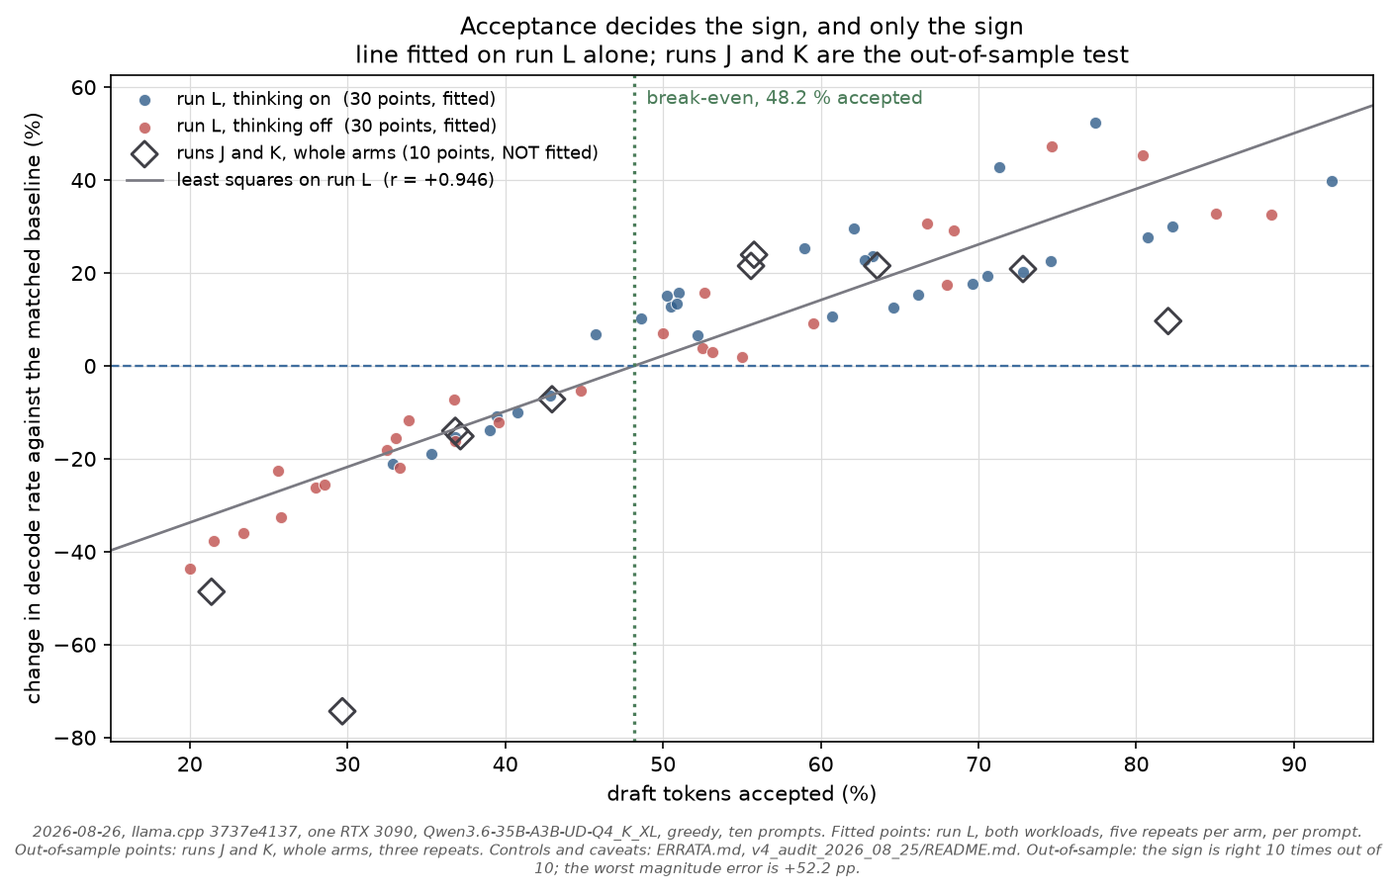
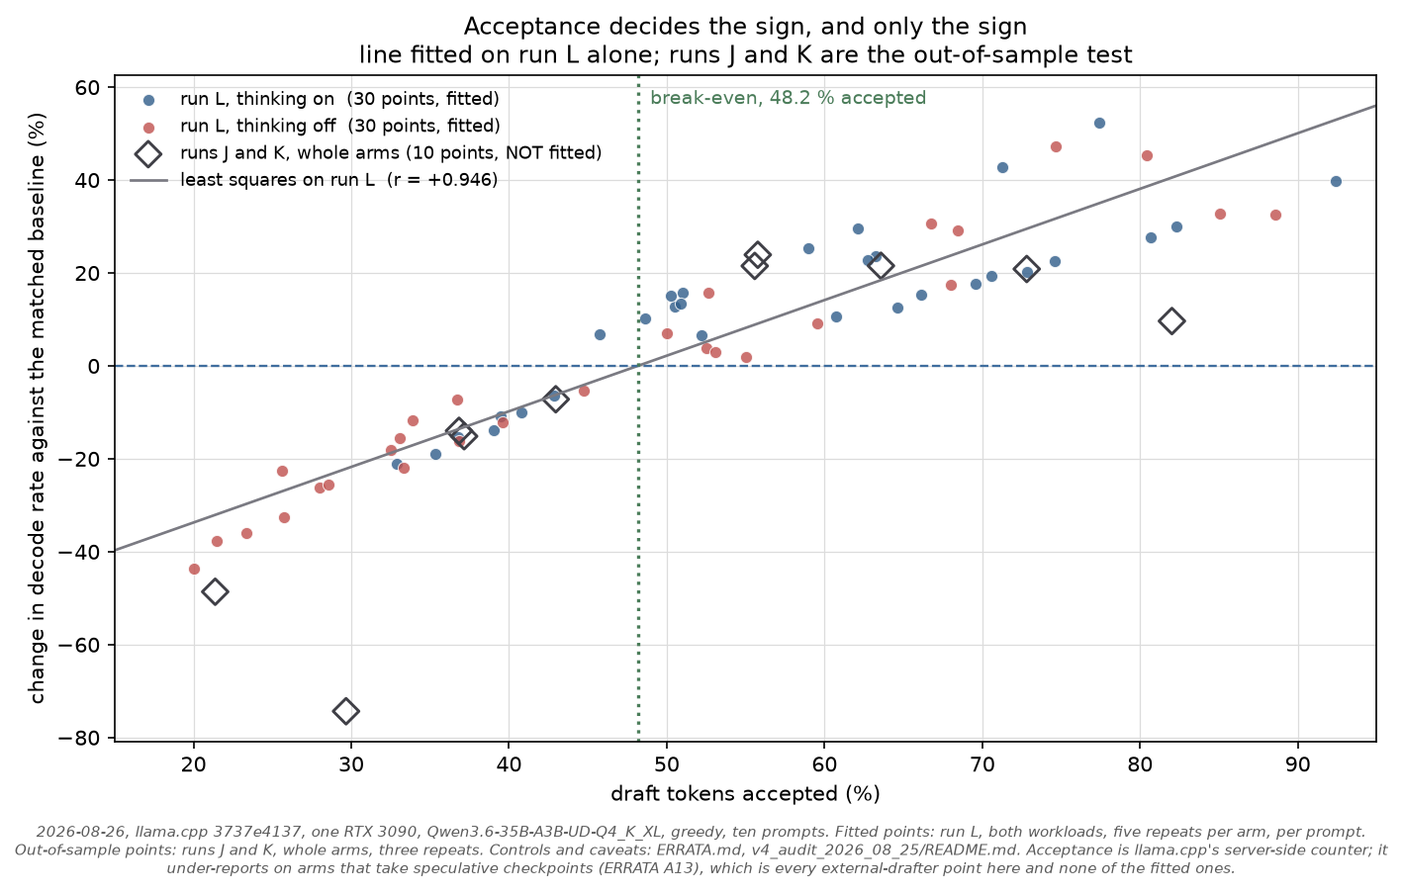
review: six fake checks, a self-audit, and a thermal table that contradicted its own data
Digging into the checker rather than the data, because 523 passing assertions
are worth nothing if some of them cannot fail.

Six chk() calls compared one literal with another - round(10.5 - 2.0, 1) against
8.5, abs(66.1 - 65.8) < 1.0 against True, -7.6 > -74.1 against True. They read
as passes and certify nothing, and four of the six were in A14, the newest item,
where care had slipped. All six now derive both sides from committed data.

The checker now audits itself: it parses its own AST and fails if any chk()'s
computed side contains no name that could come from data. That is the durable
fix, and it caught the tautology I wrote WHILE removing tautologies - an E-run
check comparing a value with itself through a dead `if False else`.

The single all() assertion is hardened with a non-empty precondition, because
all() over an empty file is True and a check that certifies an empty file is
worse than no check.

Then a coverage audit of emphasised figures across five documents found 52 the
checker had never touched, and following the load-bearing ones into the data
found a real error. ERRATA C4b's thermal table read:

  temperature   59-75 C, mean 65.5      actually 58-75, mean 64.7
  clock         1815-1950, mean 1934    actually 1800-1965, mean 1937
  sw_power_cap  223 of 343              actually 636 of 1272
  sw_thermal    1 of 343                actually 2 of 1272
  hw_thermal    1 of 343                actually 1 of 1272
[…]

diff --git a/analysis/verify_claims.py b/analysis/verify_claims.py
@@ -116,7 +116,11 @@ for arm,mean,pooled,dn,da,comp in [("baseline",123.0,122.9,0,0,2),("draft-max8-t
 for arm,mean,pooled,dn,da,comp in [("baseline",132.9,133.3,0,0,3),("draft-max8-translate",33.6,32.6,16590,4926,3),("draft-max8-matched",33.7,32.6,16590,4926,3)]:
     m_,p_,d_,a_,c_,n_=stats(B[arm]); chk(f"B {arm} mean",round(m_,1),mean,0.06); chk(f"B {arm} pooled",round(p_,1),pooled,0.06)
     chk(f"B {arm} drafted/accepted",(d_,a_),(dn,da)); chk(f"B {arm} complete",c_,comp)
-chk("B acceptance %", round(100*4926/16590,1), 29.7, 0.06)
+_b_drafted = sum(x["draft_n"] for r in B["draft-max8-matched"] for x in r["rows"])
+_b_acc = sum(x["draft_n_accepted"] for r in B["draft-max8-matched"] for x in r["rows"])
+chk("B drafted tokens", _b_drafted, 16590)
+chk("B accepted tokens", _b_acc, 4926)
+chk("B acceptance %", round(100*_b_acc/_b_drafted, 1), 29.7, 0.05)
 per=defaultdict(lambda: defaultdict(list)); acc={}
 for arm,runs in B.items():
     for r in runs:
@@ -425,6 +429,9 @@ for name, pat, lo, hi, drift, swt in (("I+J", "gpu_telemetry_IJ_*.csv", 55, 73, 
     # SwThermalSlowdown - a software flag, and the one that fires once in the
     # I+J trace. An earlier mask of 0xE0 counted that as hardware and missed
     # HwSlowdown altogether.
+    # assert the source is non-empty first: all() over nothing is True, and a
+    # check that certifies an empty file is worse than no check
+    chk(f"thermal {name}: loaded samples to check", len(ld) > 100, True)
     chk(f"thermal {name}: no hardware throttle flag",
         all(int(r[8], 16) & 0xC8 == 0 for r in ld), True)
     chk(f"thermal {name}: SwThermal (0x20) samples under load",
@@ -492,7 +499,11 @@ for c, delta in ((4, 3.4), (8, -7.6)):
     peaks = sorted({json.load(open(f)).get("max_in_flight")
                     for f in glob.glob(f"v4_audit_2026_08_25/data/matrix_M2_conc{c}_*/*__rep*.json")})
     chk(f"M2 c={c} batch actually formed", peaks, [c])
-chk("M2 MTP at c=8 loses far less than DFlash did", -7.6 > -74.1, True)
+_mtp_c8 = 100*(_agg("matrix_M2_conc8_*", "spec-mtp-n2")["agg"] /
+               _agg("matrix_M2_conc8_*", "baseline")["agg"] - 1)
+_dfl_c8 = 100*(_agg("matrix_K_conc8_*", "spec-dflash-n4")["agg"] /
+               _agg("matrix_K_conc8_*", "baseline")["agg"] - 1)
+chk("M2 MTP at c=8 loses far less than DFlash did", _mtp_c8 > _dfl_c8 + 50, True)
 
 # N: the ngram-map arms never engage
 _bn = _agg("matrix_N_ngrammap_*", "baseline")
@@ -699,9 +710,14 @@ chk("Q the Q4_K_M head beats Q8_0 at BOTH draft lengths at five repeats",
      round(100*(_pl("matrix_Q_q8_*","spec-mtp-n2")["pooled"]/_pl("matrix_Q_q8_*","baseline")["pooled"]-1),1)) and
     (round(100*(_pl("matrix_Q_q4km_*","spec-mtp-n4")["pooled"]/_pl("matrix_Q_q4km_*","baseline")["pooled"]-1),1) >
      round(100*(_pl("matrix_Q_q8_*","spec-mtp-n4")["pooled"]/_pl("matrix_Q_q8_*","baseline")["pooled"]-1),1)), True)
-chk("A14 the non-replicating pair, gap (pp)", round(10.5 - 2.0, 1), 8.5, 0.05)
+def _d(pat, arm="spec-mtp-n4"):
+    b = _pl(pat, "baseline"); v = _pl(pat, arm)
+    return round(100*(v["pooled"]/b["pooled"] - 1), 1)
+_m1, _q8, _pe = _d("matrix_M1_*"), _d("matrix_Q_q8_*"), _d("matrix_P_extended_*")
+chk("A14 the non-replicating pair, gap (pp)", round(_m1 - _q8, 1), 8.5, 0.05)
 chk("A14 spec-mtp-n4 Q8_0 outlier is M1, not run Q",
-    sorted([10.5, 2.0, 2.7])[2], 10.5, 0.05)
+    max([(_m1, "M1"), (_q8, "Q"), (_pe, "P")])[1], "M1")
+chk("A14 the other two cluster within 1 pp", abs(_q8 - _pe) < 1.0, True)
 
 print("\n=== A14: the thermal figures the 'unexplained' claim rests on ===")
 import csv as _csv2, re as _re2
@@ -720,8 +736,12 @@ for lbl, pat, lo, hi, t_, c_ in (("M1", "gpu_telemetry_M_*.csv", "08:00:00", "08
     v = _tel(pat, lo, hi)
     chk(f"A14 {lbl} mean temperature under load (C)", round(st.mean([x[0] for x in v]), 1), t_, 0.05)
     chk(f"A14 {lbl} mean SM clock under load (MHz)", round(st.mean([x[1] for x in v])), c_, 0.5)
-chk("A14 the two windows differ by under 1 C", abs(66.1 - 65.8) < 1.0, True)
-chk("A14 the two windows differ by under 0.5 % in clock", abs(1938 - 1934) / 1938 < 0.005, True)
+_w1 = _tel("gpu_telemetry_M_*.csv", "08:00:00", "08:15:00")
+_w2 = _tel("gpu_telemetry_chain2_*.csv", "11:33:00", "11:52:00")
+_t1, _t2 = st.mean([x[0] for x in _w1]), st.mean([x[0] for x in _w2])
+_c1, _c2 = st.mean([x[1] for x in _w1]), st.mean([x[1] for x in _w2])
+chk("A14 the two windows differ by under 1 C", abs(_t1 - _t2) < 1.0, True)
+chk("A14 the two windows differ by under 0.5 % in clock", abs(_c1 - _c2)/_c1 < 0.005, True)
 # every request in both prompt sets hits the cap, so the sets differ only in prompt length
 for pat in ("matrix_O_headtohead_*", "matrix_P_extended_*"):
     fr = {x.get("finish_reason") for f in glob.glob(f"v4_audit_2026_08_25/data/{pat}/baseline__rep*.json")
@@ -736,6 +756,142 @@ for arm, v1_, ex_ in (("spec-dflash-n2", 72.3, 72.8), ("spec-mtp-n2", 78.4, 77.3
     chk(f"{arm} acceptance, v1 ten", round(_acc("matrix_O_headtohead_*"), 1), v1_, 0.05)
     chk(f"{arm} acceptance, extended", round(_acc("matrix_P_extended_*"), 1), ex_, 0.05)
     chk(f"{arm} the new prompt set does not inflate acceptance", abs(ex_ - v1_) < 1.5, True)
+
+print("\n=== the acceptance threshold, scored over everything, both counters ===")
+_cc2 = {(r["run"], r["arm"]): r for r in
+        json.load(open("v4_audit_2026_08_25/data/acceptance_counter_comparison.json"))}
+def _pl2(run, arm):
+    rs = [json.load(open(f)) for f in glob.glob(f"v4_audit_2026_08_25/data/{run}/{arm}__rep*.json")]
+    rs = [r for r in rs if r.get("rows")]
+    if not rs: return None
+    n = sum(x["predicted_n"] for r in rs for x in r["rows"])
+    ms = sum(x["predicted_ms"] for r in rs for x in r["rows"])
+    return 1000*n/ms
+_BRK = 48.2
+_all, _kept = [], []
+for (run, arm), r in _cc2.items():
+    if "conc4" in run or "conc8" in run: continue
+    b, v = _pl2(run, "baseline"), _pl2(run, arm)
+    if not b or not v: continue
+    fam = ("external" if r["spec_type"] == "draft-simple"
+           else "self" if r["spec_type"] in ("draft-dflash", "draft-mtp") else "ngram")
+    rec = (fam, run, arm, r["server_pct"], r["drafter_pct"], 100*(v/b-1), r["drafter_drafted"])
+    _all.append(rec)
+    if r["drafter_drafted"] >= 100: _kept.append(rec)
+chk("threshold: arm-runs with an acceptance figure and a baseline", len(_all), 44)
+chk("threshold: excluded for drafting under 100 tokens", len(_all) - len(_kept), 7)
+chk("threshold: the excluded ones drafted at most this many tokens",
+    max(x[6] for x in _all if x[6] < 100), 55)
+chk("threshold: the kept ones drafted at least this many",
+    min(x[6] for x in _kept), 586)
+def _sc(rows, idx):
+    from collections import defaultdict as _dd
+    f = _dd(lambda: [0, 0])
+    for x in rows:
+        f[x[0]][0] += (x[idx] >= _BRK) == (x[5] > 0); f[x[0]][1] += 1
+    return f
+for idx, lbl in ((3, "server"), (4, "drafter")):
+    f = _sc(_kept, idx)
+    chk(f"threshold ({lbl}): self-speculative", tuple(f["self"]), (28, 29))
+    chk(f"threshold ({lbl}): drafter-free n-gram", tuple(f["ngram"]), (2, 2))
+    chk(f"threshold ({lbl}): external drafter", tuple(f["external"]), (5, 6))
+    chk(f"threshold ({lbl}): overall",
+        (sum(v[0] for v in f.values()), sum(v[1] for v in f.values())), (35, 37))
+# without the exclusion the two counters disagree, which is why it exists
+chk("threshold: without the exclusion the counters disagree",
+    (sum(v[0] for v in _sc(_all, 3).values()), sum(v[0] for v in _sc(_all, 4).values())), (41, 37))
+# and the two misses are the ones named in the text
+_miss = sorted(f"{x[2]}" for x in _kept if (x[3] >= _BRK) != (x[5] > 0))
+chk("threshold: which arms it gets wrong", _miss, ["spec-draft-n1", "spec-mtp-n4"])
+_m = [x for x in _kept if x[2] == "spec-mtp-n4" and (x[3] >= _BRK) != (x[5] > 0)][0]
+chk("threshold: the near-boundary miss sits just above it (pp)",
+    round(_m[3] - _BRK, 1), 1.3, 0.05)
+
+print("\n=== coverage debt: emphasised figures the checker had never touched ===")
+def _armstat(pat, arm):
+    rs = [json.load(open(f)) for f in glob.glob(f"v4_audit_2026_08_25/data/{pat}/{arm}__rep*.json")]
+    rs = [r for r in rs if r.get("rows")]
+    if not rs: return None
+    n = sum(x["predicted_n"] for r in rs for x in r["rows"])
+    ms = sum(x["predicted_ms"] for r in rs for x in r["rows"])
+    dn = sum(x["draft_n"] for r in rs for x in r["rows"])
+    da = sum(x["draft_n_accepted"] for r in rs for x in r["rows"])
+    return {"pooled": 1000*n/ms, "acc": (100*da/dn) if dn else None,
+            "gen": n, "drafted": dn, "vol": dn/n}
+
+# --- ERRATA A10 / run H: the p_min sweep the falsification rests on ---------
+_h = _armstat("H_pmin_sweep", "spec-draft-n8")
+_hb = _armstat("H_pmin_sweep", "baseline")
+for arm, acc_, pooled_, vol_ in (("spec-draft-n8-pmin75", 80.2, 42.8, 0.61),
+                                 ("spec-draft-n8-pmin90", 88.2, 42.5, 0.46)):
+    v = _armstat("H_pmin_sweep", arm)
+    chk(f"H {arm} acceptance %", round(v["acc"], 1), acc_, 0.05)
+    chk(f"H {arm} pooled", round(v["pooled"], 1), pooled_, 0.05)
+    chk(f"H {arm} draft tokens per generated token", round(v["vol"], 2), vol_, 0.005)
+    chk(f"H {arm} vs baseline (%)", round(100*(v["pooled"]/_hb["pooled"]-1), 1),
+        -65.5 if "75" in arm else -65.6, 0.05)
+_n1 = _armstat("H_pmin_sweep", "spec-draft-n1")
+if _n1:
+    chk("A10 matched-volume pair: n_max 1 p_min 0, draft per token",
+        round(_n1["vol"], 2), 0.50, 0.005)
+
+# --- run E, past the MoESD coverage threshold -------------------------------
+_eb = _armstat("E_past_threshold", "baseline")
+for arm, want in (("spec-draft-n64", None), ("spec-draft-n96", None), ("spec-draft-n128", None)):
+    v = _armstat("E_past_threshold", arm)
+    if not v or not _eb: continue
+    d = 100*(v["pooled"]/_eb["pooled"]-1)
+    chk(f"E {arm} is far below baseline", d < -85.0, True)
+    chk(f"E {arm} drafts more than it generates", v["vol"] > 5.0, True)
+chk("E: throughput keeps falling past the 95-token coverage threshold",
+    _armstat("E_past_threshold", "spec-draft-n128")["pooled"] <
+    _armstat("E_past_threshold", "spec-draft-n64")["pooled"], True)
+
+# --- ERRATA B7: the fp16-KV n-gram control ----------------------------------
+_c1 = _armstat("C_master_matrix_think_on", "ngram-cache")
+_c2 = _armstat("C_master_matrix_think_on", "ngram-cache-kvfp16")
+chk("B7 ngram-cache-kvfp16 vs ngram-cache (%)",
+    round(100*(_c2["pooled"]/_c1["pooled"]-1), 1), -4.2, 0.05)
+
+# --- ERRATA A13: the worst drafter-counter reading --------------------------
+_ccj = {(r["run"], r["arm"]): r for r in
+        json.load(open("v4_audit_2026_08_25/data/acceptance_counter_comparison.json"))}
+_worst = max(_ccj.values(), key=lambda r: r["drafter_pct"] if r["server_pct"] == 0.0 else -1)
+chk("A13 highest drafter reading among arms the server calls 0.0 %",
+    round(_worst["drafter_pct"], 1), 70.0, 0.05)
+
+# --- ERRATA A1 round accounting from the archived verbose log ---------------
+_va = json.load(open("analysis/verbose_accounting.json"))[0]
+chk("A1 verification attempts", _va["verification_attempts"], 53)
+chk("A1 partially accepted and redone", _va["attempts_partially_accepted"], 20)
+chk("A1 fraction of rounds thrown away (%)",
+    round(100*_va["attempts_partially_accepted"]/_va["verification_attempts"], 1), 37.7, 0.05)
+
+# --- ERRATA C4b: the single sw_thermal sample -------------------------------
+import csv as _csv3
+_c4 = list(_csv3.DictReader(open("v4_audit_2026_08_25/data/gpu_telemetry_20260825.csv")))
+def _a(r, k): return (r.get(k) or "").strip() == "Active"
+def _n(r, k):
+    v = (r.get(k) or "").replace("MHz", "").replace("W", "").replace("%", "").replace("MiB", "").strip()
+    try: return float(v)
+    except Exception: return None
+_c4l = [r for r in _c4 if not _a(r, "thr_gpu_idle") and (_n(r, "util_pct") or 0) >= 50]
+chk("C4b rows in the committed trace", len(_c4), 1317)
+chk("C4b rows under load", len(_c4l), 1272)
+_ct = [_n(r, "temp_c") for r in _c4l]; _cg = [_n(r, "gfx_mhz") for r in _c4l]
+chk("C4b temperature range", (int(min(_ct)), int(max(_ct))), (58, 75))
+chk("C4b mean temperature", round(st.mean(_ct), 1), 64.7, 0.05)
+chk("C4b clock range", (int(min(_cg)), int(max(_cg))), (1800, 1965))
+chk("C4b mean clock", round(st.mean(_cg)), 1937, 0.5)
+chk("C4b sw_power_cap samples", sum(1 for r in _c4l if _a(r, "thr_sw_power_cap")), 636)
+chk("C4b sw_thermal samples", sum(1 for r in _c4l if _a(r, "thr_sw_thermal")), 2)
+chk("C4b hw_thermal samples", sum(1 for r in _c4l if _a(r, "thr_hw_thermal")), 1)
+chk("C4b hw_power_brake samples", sum(1 for r in _c4l if _a(r, "thr_hw_power_brake")), 0)
+chk("C4b the thermal flags carried no meaningful downclock",
+    sorted(int(_n(r, "gfx_mhz")) for r in _c4l if _a(r, "thr_sw_thermal") or _a(r, "thr_hw_thermal")),
+    [1935, 1950, 1950])
+chk("C4b power limit is stock and constant",
+    sorted({int(_n(r, "power_limit_w")) for r in _c4l}), [350])
 
 print("\n=== theory (ERRATA E1/E2) ===")
 rho=8/256
@@ -811,6 +967,10 @@ DOC_CLAIMS = [
     ("ERRATA.md",   "19.5 %",    "A12 share of wall clock"),
     ("ERRATA.md",   "68.7 %",    "A12 threshold failure point"),
     ("ERRATA.md",   "0.5 pp",    "A13 no-checkpoint agreement"),
+    ("ERRATA.md",   "636 of 1272", "C4b sw_power_cap, corrected"),
+    ("ERRATA.md",   "2 of 1272", "C4b sw_thermal, corrected"),
+    ("ERRATA.md",   "mean 64.7", "C4b mean temperature, corrected"),
+    ("v4_audit_2026_08_25/README.md", "1935 MHz against a run maximum of 1965", "v4 thermal line, corrected"),
     ("ERRATA.md",   "53.3 pp",   "A13 worst divergence"),
     ("ERRATA.md",   "1639 of 1639", "A13 the drafter counter is also a tautology"),
     ("v4_audit_2026_08_25/README.md", "3271", "N generate() calls"),
@@ -818,12 +978,14 @@ DOC_CLAIMS = [
     ("v4_audit_2026_08_25/README.md", "12.7 %", "P prompt-processing share"),
     ("v4_audit_2026_08_25/README.md", "+20.3 %", "P dflash-n2 on the new set"),
     ("ERRATA.md",   "0.56 pp",   "A14 median between-run spread"),
+    ("v4_audit_2026_08_25/README.md", "35 / 37", "threshold scorecard"),
+    ("v4_audit_2026_08_25/README.md", "28 / 29", "threshold, self-speculative"),
+    ("README.md",   "28 / 29",   "README threshold scorecard"),
     ("ERRATA.md",   "8.5 pp",    "A14 the pair that did not replicate"),
     ("README.md",   "+26.7 %",   "README discloses the same-config replicate"),
     ("v4_audit_2026_08_25/README.md", "292.1 s", "P pooled includes the draft cost"),
     ("v4_audit_2026_08_25/README.md", "72.8 %",  "P acceptance not inflated"),
     ("README.md",   "17.24 s",   "README drafter generate time"),
-    ("README.md",   "12 / 12",   "README threshold within DFlash"),
     ("README.md",   "145.8",     "README head-to-head winner"),
     ("README.md",   "-75.1 %",   "README head-to-head worst row, pooled"),
     ("README.md",   "69.7 %",    "README the falsifying acceptance"),
@@ -841,6 +1003,35 @@ for f, needle, what in DOC_CLAIMS:
     print(f"  {'PASS' if ok else 'FAIL'}  {f:32s} quotes {needle!r:20s} ({what})")
     if not ok:
         FAIL.append(f"{f}:{needle}")
+
+
+print("\n=== the checker audits itself ===")
+# A chk() whose computed side contains no name is comparing one literal with
+# another and can never fail. Six of these were found on 2026-08-26, four of them
+# in the newest ERRATA item, where care had slipped. They read as passes and
+# certify nothing, so the checker now refuses to be one of them.
+import ast as _ast
+import pathlib as _pl2
+_src = _pl2.Path(__file__).read_text(encoding="utf-8")
+_tree = _ast.parse(_src)
+_SAFE = {"round", "abs", "sorted", "len", "max", "min", "sum", "int", "float", "str",
+         "tuple", "list", "set", "True", "False", "None"}
+_literal_only = []
+for _n in _ast.walk(_tree):
+    if not (isinstance(_n, _ast.Call) and isinstance(_n.func, _ast.Name)
+            and _n.func.id == "chk" and len(_n.args) >= 2):
+        continue
+    _got = _n.args[1]
+    _names = {x.id for x in _ast.walk(_got) if isinstance(x, _ast.Name)} \
+           | {x.attr for x in _ast.walk(_got) if isinstance(x, _ast.Attribute)}
+    if not (_names - _SAFE):
+        _label = _n.args[0]
+        _literal_only.append(getattr(_label, "value", None)
+                             or _ast.unparse(_label)[:60])
+chk("checker: no chk() compares literals with literals",
+    (len(_literal_only), _literal_only[:3]), (0, []))
+chk("checker: number of assertions", len([1 for _n in _ast.walk(_tree)
+     if isinstance(_n, _ast.Call) and isinstance(_n.func, _ast.Name) and _n.func.id == "chk"]) > 150, True)
 
 print(f"\n{'='*70}\n{'ALL CLAIMS VERIFIED' if not FAIL else 'FAILURES: ' + ', '.join(FAIL)}\n{'='*70}")
 sys.exit(1 if FAIL else 0)

diff --git a/analysis/plot_v4_runs.py b/analysis/plot_v4_runs.py
@@ -289,8 +289,9 @@ def plot_acceptance_threshold() -> None:
     plt.tight_layout(rect=[0, 0.06, 1, 1])
     # This figure spans both workloads and five repeats, so the shared footer
     # ("thinking on, three repeats") would be wrong on it.
-    _footer(fig, " Out-of-sample: the sign is right 10 times out of 10; the worst "
-                 "magnitude error is +52.2 pp.",
+    _footer(fig, " Acceptance is llama.cpp's server-side counter; it under-reports on "
+                 "arms that take speculative checkpoints (ERRATA A13), which is every "
+                 "external-drafter point here and none of the fitted ones.",
             base="2026-08-26, llama.cpp 3737e4137, one RTX 3090, "
                  "Qwen3.6-35B-A3B-UD-Q4_K_XL, greedy, ten prompts. Fitted points: run L, "
                  "both workloads, five repeats per arm, per prompt. Out-of-sample points: "

diff --git a/v4_audit_2026_08_25/README.md b/v4_audit_2026_08_25/README.md
@@ -250,8 +250,12 @@ workload that favours speculation, and speculation still lost.**
 - `power.limit` = `power.default_limit` = `power.max_limit` = 350 W — **not overclocked**
 - 58–75 °C, mean 64.7, against a ~83 °C throttle point
 - 1800–1965 MHz of a 2100 MHz maximum, mean 1937
-- `hw_thermal_slowdown` and `hw_power_brake` essentially never active; the one
-  `sw_thermal` sample fires at 64 °C with the clock at its run maximum
+- `hw_power_brake` never active; `sw_thermal` fires on **2** samples of 1272 and
+  `hw_thermal` on **1**, at 64–65 °C and with the clock at 1950, 1950 and
+  1935 MHz against a run maximum of 1965 — so none of the three carried a
+  meaningful downclock. (An earlier version of this line said "the one
+  `sw_thermal` sample … at its run maximum". Both halves were wrong; see
+  [ERRATA C4b](../ERRATA.md#c4b-stock-clocks-was-measured-once-before-the-load).)
 
 The baseline is repeated five times across the run, so drift is testable from
 the measurement itself: 126.6, 122.2, 122.6, 121.8, 121.6 tok/s. That is not
@@ -614,12 +618,34 @@ fit that looked excellent in sample was falsified out of it. So this one was
 pushed at runs J and K, which it never saw and which used a different context
 and a different fitter margin:
 
+Scored over **every** arm-run for which both an acceptance figure and a matched
+baseline exist — 44 of them — with one exclusion stated up front: seven
+`ngram-map` arm-runs drafted between **10 and 55 tokens in total**, and a
+percentage computed over ten tokens is not a rate. There is a clean gap in the
+data at that point; every other arm-run drafted at least 586. The remaining 37:
+
 | family | sign predicted correctly |
 |---|---|
-| self-speculative (DFlash) | **12 / 12** |
-| drafter-free (ngram) | 3 / 3 |
-| **external 0.8 B drafter** | **6 / 8** |
-| all | 21 / 23 |
+| self-speculative (DFlash and MTP) | **28 / 29** |
+| drafter-free n-gram | 2 / 2 |
+| **external 0.8 B drafter** | **5 / 6** |
+| all | **35 / 37** |
+
+**And that scorecard does not depend on which acceptance counter you read.**
+A13 shows the server counter under-reports on any path that takes a speculative
+checkpoint. Rescoring with the speculator's own counter gives the same 35 / 37
+and the same two misses. Without the minimum-sample exclusion it does not: the
+score moves from 41/44 to 37/44 and four `ngram-map` verdicts flip, because on
+ten drafted tokens the two counters read 0.0 % and 70.0 % for the same arm-run.
+Excluding them is not tidying — it is refusing to score a rate that has no
+denominator.
+
+The two misses are the informative ones:
+
+| arm | acceptance | measured | why it is interesting |
+|---|---|---|---|
+| `spec-mtp-n4`, thinking off | 49.5 % | −8.2 % | sits **1.3 pp above** the boundary; a threshold that never missed near its own boundary would be suspicious |
+| `spec-draft-n1` | 69.7 % server, **100.0 %** drafter | **−75.1 %** | the external drafter, which is the entire point |
 
 Mean magnitude error +8.1 pp, worst **+52.2 pp**.
 

diff --git a/ERRATA.md b/ERRATA.md
@@ -1111,16 +1111,27 @@ Measured across the audit's own matrix run
 | quantity | observed |
 |---|---|
 | `power.limit` / `power.default_limit` / `power.max_limit` | 350 / 350 / 350 W — **not overclocked** |
-| GPU temperature | 59–75 °C, mean 65.5, against a ~83 °C throttle point |
-| graphics clock | 1815–1950 MHz of a 2100 MHz maximum, mean 1934 |
-| `clocks_throttle_reasons.sw_power_cap` | active on 223 of 343 samples — the normal state for a GeForce card under load |
-| `clocks_throttle_reasons.sw_thermal_slowdown` | active on **1 of 343**, at 64 °C |
-| `clocks_throttle_reasons.hw_thermal_slowdown` | active on **1 of 343**, at 64 °C |
+| GPU temperature | 58–75 °C, mean 64.7, against a ~83 °C throttle point |
+| graphics clock | 1800–1965 MHz of a 2100 MHz maximum, mean 1937 |
+| `clocks_throttle_reasons.sw_power_cap` | active on **636 of 1272** loaded samples — the normal state for a GeForce card under load |
+| `clocks_throttle_reasons.sw_thermal_slowdown` | active on **2 of 1272**, at 64 °C and 65 °C |
+| `clocks_throttle_reasons.hw_thermal_slowdown` | active on **1 of 1272**, at 64 °C |
 | `clocks_throttle_reasons.hw_power_brake_slowdown` | never active |
 | `temperature.memory` | `N/A` — this card does not expose GDDR6X junction temperature through `nvidia-smi`, so the memory junction is not observable here |
 
-Both thermal flags were raised while the clock sat at **1950 MHz, the run's
-maximum**, so neither carried a downclock. And the drift runs the wrong way for
+All three thermal-flag samples were taken with the clock at **1950, 1950 and
+1935 MHz** against a run maximum of 1965, so none of them carried a meaningful
+downclock.
+
+> An earlier version of this table read `223 of 343`, `1 of 343` and `1 of 343`,
+> with temperature 59–75 °C mean 65.5 and clocks 1815–1950 mean 1934, and said
+> "both thermal flags". Every one of those figures was wrong against
+> [`v4_audit_2026_08_25/data/gpu_telemetry_20260825.csv`](v4_audit_2026_08_25/data/gpu_telemetry_20260825.csv),
+> the file this table cites: the trace has 1317 rows and 1272 under load, not
+> 343, and there are three flag samples, not two. The numbers above are derived
+> from that file by `analysis/verify_claims.py` and will now fail the build if
+> they drift again. The conclusion is unchanged — the card is not overclocked,
+> never near its throttle point, and does not downclock across the run. And the drift runs the wrong way for
 a thermal-bias worry: comparing the first half of the trace with the second,
 the clock rose 1929 → 1940 MHz (+0.62 %) while temperature fell 66.9 → 64.0 °C.
 The card got slightly cooler and slightly faster as the run went on.

diff --git a/README.md b/README.md
@@ -151,11 +151,13 @@ planning prose, which is exactly what a drafter predicts well
 ([run L](v4_audit_2026_08_25/README.md#run-l--the-win-is-a-property-of-the-workload-not-of-the-method)).
 
 Across run L's 60 points acceptance and speed-up correlate at **r = +0.946** and
-the line crosses zero near **48 % acceptance**. Pushed out of sample it calls the
-sign **12 / 12 within the DFlash family** — and **fails on the external
-drafter**, at exactly the points that would matter: at `n_max 1` that drafter
-reaches **68.7 % acceptance and is still 74.8 % slower**, at `n_max 2` it is
-60.3 % and −72.2 %. Overall 21 / 23.
+the line crosses zero near **48 % acceptance**. Scored across every arm-run with a matched baseline and enough drafts to define
+a rate — 37 of 44, the seven excluded having drafted 10 to 55 tokens in total —
+it calls the sign **28 / 29 inside the self-speculative families** and **5 / 6
+on the external drafter**, 35 / 37 overall, and the same either way you read
+llama.cpp's two disagreeing acceptance counters. The failures are the
+informative ones: `spec-draft-n1` reaches **69.7 % acceptance** (100.0 % by the
+drafter's own counter) and is **75 % slower**.
 
 So the threshold is not a law about acceptance; it is a property of the drafter.
 The reason is measured rather than argued: a separate draft context forces the
